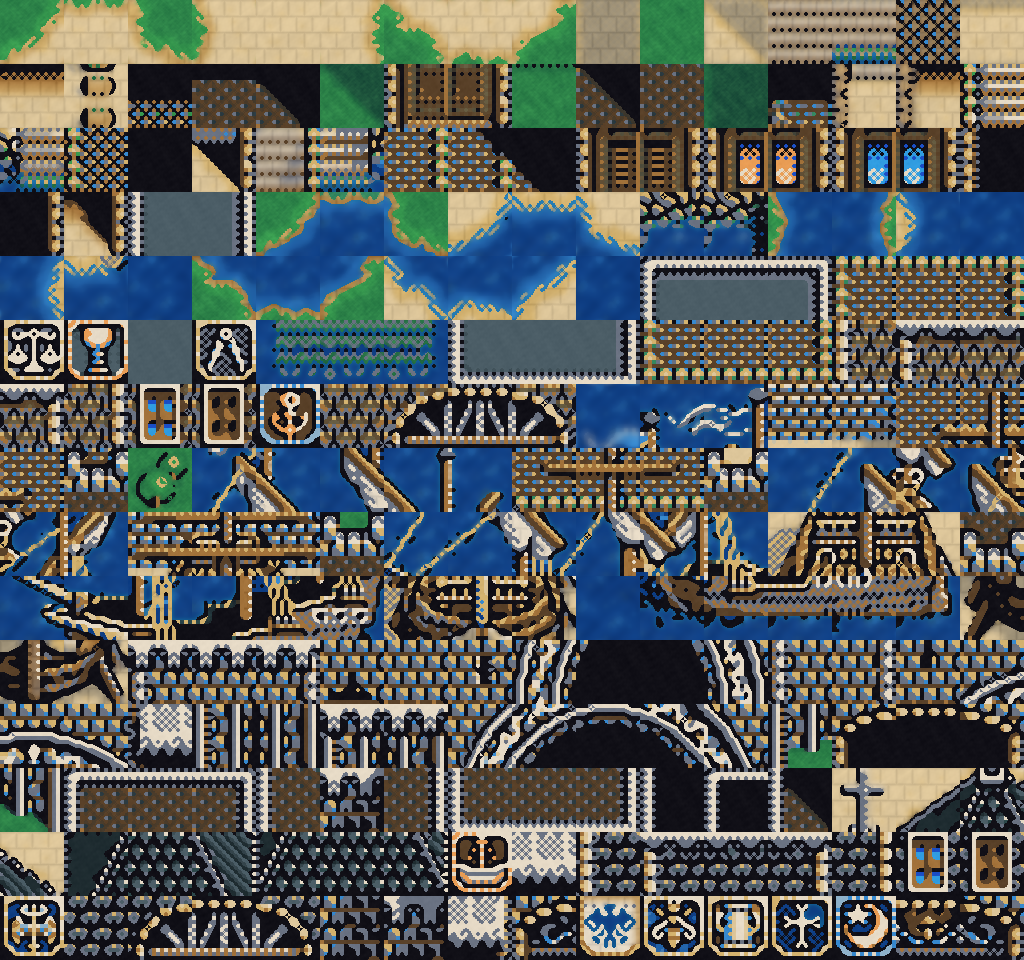
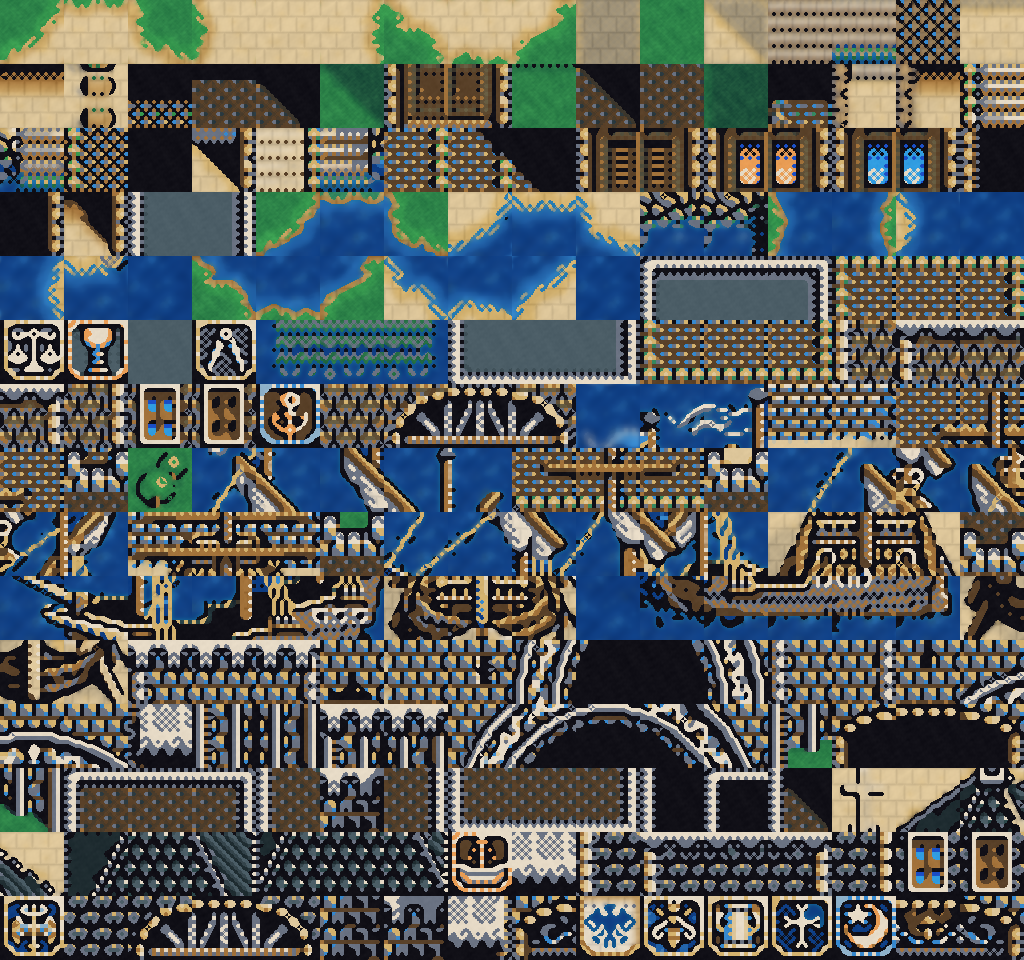
fix(art,hd2d): unify drydock ships, surf coastlines, stone shadows, and doorway stairs across sets 0-6

diff --git a/tools/build_hd_textures.py b/tools/build_hd_textures.py
@@ -415,7 +415,7 @@ def compute_portmap_context(meta: dict):
 WALL_PLAQUE_SKIP_SAND = {
     0: {83},
     1: set(),
-    2: {22, 23, 27, 56, 76, 84, 86, 95, 97, 219, 234, 235},
+    2: {56, 219, 234, 235},
     3: {89, 169, 181, 189},
     4: {44, 45, 46, 47, 110},
     5: {54, 62, 97},
@@ -429,10 +429,11 @@ def extract_outer_ground(tile_idx: np.ndarray, set_idx: int, t_id: int, p2: int,
     if t_id < p2 or np.any(is_water) or not edge_map:
         return outer_sand, outer_grass
 
-    def flood_group(grp: set[int]) -> tuple[np.ndarray, set[int]]:
+    def flood_group(grp: set[int], allow_mask: np.ndarray | None = None) -> tuple[np.ndarray, set[int]]:
         q = deque()
         loc = np.zeros_like(tile_idx, dtype=bool)
         all_a: set[int] = set()
+        valid = np.isin(tile_idx, list(grp)) if allow_mask is None else (np.isin(tile_idx, list(grp)) | allow_mask)
         for ei, allowed in edge_map.items():
             if not (grp & allowed):
                 continue
@@ -440,7 +441,7 @@ def extract_outer_ground(tile_idx: np.ndarray, set_idx: int, t_id: int, p2: int,
             coords = [(0, x) for x in range(16)] if ei == 0 else ([(y, 15) for y in range(16)] if ei == 1 else ([(15, x) for x in range(16)] if ei == 2 else [(y, 0) for y in range(16)]))
             run = []
             for y, x in coords:
-                if int(tile_idx[y, x]) in grp:
+                if valid[y, x]:
                     run.append((y, x))
                 else:
                     if len(run) >= 3:
@@ -458,7 +459,7 @@ def extract_outer_ground(tile_idx: np.ndarray, set_idx: int, t_id: int, p2: int,
             cy, cx = q.popleft()
             for dy, dx in ((-1, 0), (1, 0), (0, -1), (0, 1)):
                 ny, nx = cy + dy, cx + dx
-                if 0 <= ny < 16 and 0 <= nx < 16 and not loc[ny, nx] and int(tile_idx[ny, nx]) in grp:
+                if 0 <= ny < 16 and 0 <= nx < 16 and not loc[ny, nx] and valid[ny, nx]:
                     loc[ny, nx] = True
                     q.append((ny, nx))
         return loc, all_a
@@ -471,11 +472,21 @@ def extract_outer_ground(tile_idx: np.ndarray, set_idx: int, t_id: int, p2: int,
     if t_id in WALL_PLAQUE_SKIP_SAND.get(set_idx, set()):
         return outer_sand, outer_grass
 
-    # 2) 外围棋盘格砂土/泥地 ({8, 11, 15} 如 set 4 马车/set 3 椰树影, {8, 10} 如 set 5 马匹/篱笆)
+    # set 1 旱坞船左侧假影 ({0, 8, 10}) 允许穿过非实心黑船壳的孤立棋盘 0 噪点
+    checker_zero_mask = None
+    if set_idx == 1 and t_id in (129, 141, 153, 165):
+        zpad = np.pad((tile_idx == 0).astype(np.int32), ((0, 0), (1, 1)), mode="constant", constant_values=0)
+        z_lr = zpad[:, :-2] + zpad[:, 2:]
+        checker_zero_mask = (tile_idx == 0) & (z_lr == 0)
+        xs = np.arange(16)[None, :]
+        checker_zero_mask &= (xs <= 6)
+
+    # 2) 外围棋盘格砂土/泥地 ({8, 11, 15} 如旱坞船、马车、椰树影, {8, 10} 如 set 1 船与 set 5 马匹/篱笆)
     if not has_water_adj:
-        for grp, core, col_b in (({8, 11, 15}, {8, 11}, 11), ({8, 10}, {8, 10}, 10)):
-            md, ad = flood_group(grp)
-            ok_edge = core.issubset(ad) or (grp == {8, 11, 15} and {11, 15}.issubset(ad) and set_idx in (3, 4))
+        for grp, core, col_b in (({8, 11, 15}, {8, 11}, 11), ({8, 10, 11}, {8, 10}, 10), ({8, 10}, {8, 10}, 10)):
+            am = checker_zero_mask if (grp == {8, 10, 11} and checker_zero_mask is not None) else None
+            md, ad = flood_group(grp, allow_mask=am)
+            ok_edge = core.issubset(ad) or (grp == {8, 11, 15} and {11, 15}.issubset(ad))
             if int(np.sum(md)) >= 12 and ok_edge and int(np.sum(md & (tile_idx == 8))) >= 4 and int(np.sum(md & (tile_idx == col_b))) >= 4:
                 outer_sand |= md
 
@@ -496,6 +507,10 @@ def process_portchip_sheet(set_idx: int, p1: int, p2: int, p3: int, mats, water_
     cols, rows = W // tile_sz, H // tile_sz
 
     sand_alb, sand_hgt, grass_alb, grass_hgt, water_alb, arch_alb = mats
+    ref_tid = 5 if set_idx == 1 else 4
+    ref_r, ref_c = divmod(ref_tid, cols)
+    ref_tile_idx = idx_all[ref_r * tile_sz:(ref_r + 1) * tile_sz, ref_c * tile_sz:(ref_c + 1) * tile_sz]
+    stone_ref = np.mean(MODERN_GROUND_PAL[ref_tile_idx], axis=(0, 1)).astype(np.float32)
 
     alb_out = np.zeros((rows * hd_tile, cols * hd_tile, 4), dtype=np.uint8)
     nrm_out = np.zeros((rows * hd_tile, cols * hd_tile, 4), dtype=np.uint8)
@@ -510,14 +525,28 @@ def process_portchip_sheet(set_idx: int, p1: int, p2: int, p3: int, mats, water_
             # 语义划分：0=结构黑线, 1=水体, 2=砂石路面, 3=草坪, 4=建筑/石墙/木船/树木
             sem = np.full((tile_sz, tile_sz), 4, dtype=np.uint8)
             is_blue = (tile_idx == 9) | (tile_idx == 12)
-            # 仅把真正连片水域 (连通域>=14像素且主要包含深水色 9, 排除石砖高亮蓝点与王宫蓝鹰盾牌) 识别为动态水面
+            # 仅把真正连片水域 (深水连通域>=14 且含>=6深水9；或紧邻纯海且贴边的浪花浅水 12 / 码头平唇，排除建筑蓝窗) 识别为动态水面
             lbl_arr, n_comp = label(is_blue, structure=np.ones((3, 3), dtype=np.int32))
             water_base = np.zeros_like(is_blue)
+            c0_cnt_pre = int(np.sum(tile_idx == 0))
+            c15_cnt_pre = int(np.sum(tile_idx == 15))
+            c_ground_pre = int(np.sum((tile_idx == 8) | (tile_idx == 10) | (tile_idx == 11)))
+            c_land_pre = c_ground_pre + int(np.sum((tile_idx == 13) | (tile_idx == 14)))
             for cid in range(1, n_comp + 1):
                 comp_m = (lbl_arr == cid)
                 area = int(np.sum(comp_m))
                 deep_cnt = int(np.sum(comp_m & (tile_idx == 9)))
-                if area >= 14 and deep_cnt >= 6:
+                touches_border = bool(np.any(comp_m[0, :] | comp_m[-1, :] | comp_m[:, 0] | comp_m[:, -1]))
+                is_shallow_surf = (
+                    (t_id in water_adj_set)
+                    and touches_border
+                    and (
+                        (area >= 1 and c0_cnt_pre <= 36 and c15_cnt_pre >= 60 and c_land_pre >= 100)
+                        or (area >= 3 and c0_cnt_pre <= 36 and c15_cnt_pre >= 40 and c_land_pre >= 80)
+                        or (area >= 8 and c0_cnt_pre <= 32 and c_ground_pre >= 180)
+                    )
+                )
+                if (area >= 14 and deep_cnt >= 6) or is_shallow_surf:
                     water_base |= comp_m
 
             # 检测“纯水上波纹/水面倒影影块” (如 153 号水面倒影黑波，仅有 0/8/9/12 无木/石/砖结构；或 105 号海浪白沫)
@@ -540,23 +569,45 @@ def process_portchip_sheet(set_idx: int, p1: int, p2: int, p3: int, mats, water_
             c0_cnt = int(np.sum(tile_idx == 0))
             is_grass_shadow_tile = (t_id < p2) and (c0_cnt >= 90) and (13 in uniq_idx) and uniq_idx.issubset({0, 10, 13, 14})
             is_sand_shadow_tile = (t_id < p2) and (c0_cnt >= 90) and (8 not in uniq_idx) and (13 not in uniq_idx) and uniq_idx.issubset({0, 10, 11, 15})
-            is_stone_shadow_tile = (t_id < p1) and (c0_cnt >= 40) and (8 in uniq_idx) and uniq_idx.issubset({0, 8, 10, 11})
+            is_stone_shadow_tile = (
+                (t_id < p1 or (set_idx == 5 and t_id in (38, 39, 41, 45)))
+                and (c0_cnt >= 36)
+                and (8 in uniq_idx)
+                and uniq_idx.issubset({0, 8, 10, 11})
+            )
             is_ground_shadow_tile = is_grass_shadow_tile or is_sand_shadow_tile or is_stone_shadow_tile
             is_road_curb = (set_idx == 0) and (t_id in (18, 31, 32, 33, 38, 39, 40))
+            is_ground_stair = (set_idx == 3 and t_id == 30) or (set_idx == 4 and t_id in (44, 45, 46, 47))
 
             # 行1 (t_id >= 16) 且位于 < p2 的多黑线大门下半格/深色屋檐瓦片归为立体建筑，但排除石板路面、台阶与纯地面墙影
             is_arch_walk = (t_id >= 16) and (t_id < p2) and (c0_cnt >= 85) and not np.any(is_water) and not is_ground_shadow_tile and not is_road_curb
             is_walk = (t_id < p2) and not is_arch_walk
             is_tree_tile = (t_id >= p2) and (int(np.sum((tile_idx == 13) | (tile_idx == 14))) >= 120) and not np.any(is_water) and (c0_cnt >= 8)
             is_shore_tile = (t_id >= p2) and np.any(is_water) and (int(np.sum((tile_idx == 13) | (tile_idx == 14))) >= 18)
-            is_flat_beach = (t_id >= p2) and np.any(is_water) and (
-                c0_cnt <= 20
-                or (c0_cnt <= 32 and int(np.sum((tile_idx == 8) | (tile_idx == 10) | (tile_idx == 11) | (tile_idx == 13) | (tile_idx == 14) | (tile_idx == 15))) >= 150)
+            is_flat_beach = (t_id >= p2) and (
+                (
+                    np.any(is_water)
+                    and (
+                        c0_cnt <= 20
+                        or (c0_cnt <= 36 and int(np.sum((tile_idx == 8) | (tile_idx == 10) | (tile_idx == 11) | (tile_idx == 13) | (tile_idx == 14) | (tile_idx == 15))) >= 150)
+                    )
+                )
+                or (
+                    (t_id in water_adj_set)
+                    and (c0_cnt <= 48)
+                    and uniq_idx.issubset({0, 8, 10, 11, 12, 15})
+                    and (
+                        int(np.sum((tile_idx == 8) | (tile_idx == 10) | (tile_idx == 11))) >= 180
+                        or (c0_cnt <= 36 and int(np.sum((tile_idx == 11) | (tile_idx == 15))) >= 140)
+                    )
+                )
             )
 
             outer_sand, outer_grass = extract_outer_ground(
                 tile_idx, set_idx, t_id, p2, open_edge_map.get(t_id, {}), is_water, t_id in water_adj_set
             )
+            if set_idx == 5 and t_id == 35:
+                outer_sand[10:, :] |= (tile_idx[10:, :] == 8) | (tile_idx[10:, :] == 10)
             if is_road_curb:
                 outer_grass = outer_grass | ((tile_idx == 13) | (tile_idx == 14))
             outer_bg = outer_sand | outer_grass
@@ -598,31 +649,39 @@ def process_portchip_sheet(set_idx: int, p1: int, p2: int, p3: int, mats, water_
                 if np.any(outer_grass):
                     sem[outer_grass] = 3
             if not is_ground_shadow_tile:
-                sem[tile_idx == 0] = 0
+                sem[(tile_idx == 0) & ~outer_sand] = 0
             sem[is_water] = 1
 
             # 1) Albedo: 地面、平坦海岸线与树格使用地面色盘；道具/船/尖塔/十字架/沙漠屋顶的外围裸露地面也使用地面色盘以无缝衔接铺石
             pairs = GROUND_DITHER_PAIRS if (is_walk or is_shore_tile or is_flat_beach or is_tree_tile) else ARCH_DITHER_PAIRS
             if is_flat_beach:
                 pairs = pairs | {(8, 11), (11, 8), (8, 10), (10, 8)}
-            tile_pal = MODERN_GROUND_PAL if (is_walk or is_tree_tile or is_shore_tile or is_flat_beach) else MODERN_ARCH_PAL
+            tile_pal = MODERN_GROUND_PAL if (is_walk or is_tree_tile or is_shore_tile or is_flat_beach or is_ground_stair) else MODERN_ARCH_PAL
             base_16 = dedither_tile_rgb(tile_idx, tile_pal, pairs, is_water=is_water, wrap_edges=(is_walk and t_id < p1 and not is_ground_shadow_tile and not is_road_curb))
             if not (is_walk or is_tree_tile or is_shore_tile or is_flat_beach) and np.any(outer_bg):
                 ext_pairs = GROUND_DITHER_PAIRS | {(8, 11), (11, 8), (8, 10), (10, 8)}
                 base_ext = dedither_tile_rgb(tile_idx, MODERN_GROUND_PAL, ext_pairs, is_water=is_water, wrap_edges=False)
-                if set_idx == 3 and np.any(outer_sand & (tile_idx == 8)):
-                    # 清除 set 3 旱坞船体 (114/125) 与椰树 (235) 左侧原版 1993 灰格假影，由 WebGL2 实时光线统一投射斜影
+                if set_idx in (0, 2, 3, 4, 6) and np.any(outer_sand & (tile_idx == 8)):
+                    # 清除旱坞船体 (set 0/2/3)、椰树等左侧原版 1993 {8,11} 灰格假影，由 WebGL2 实时光线统一投射斜影
                     clean_sand = MODERN_GROUND_PAL[11] * 0.48 + MODERN_GROUND_PAL[15] * 0.52
                     base_ext[outer_sand & ((tile_idx == 8) | (tile_idx == 10))] = clean_sand
+                elif set_idx == 1 and t_id in (129, 141, 153, 165) and np.any(outer_sand):
+                    # 清除 set 1 旱坞船左侧 {0, 8, 10} 灰格假影，匹配其邻接地砖 stone_ref
+                    base_ext[outer_sand & ((tile_idx == 8) | (tile_idx == 0))] = stone_ref
                 base_16 = np.where(outer_bg[:, :, None], base_ext, base_16)
-            if is_ground_shadow_tile and not is_stone_shadow_tile:
+            if is_ground_shadow_tile:
                 if is_grass_shadow_tile:
                     sunlit_grass = MODERN_GROUND_PAL[13] * 0.48 + MODERN_GROUND_PAL[14] * 0.52
                     fill_col = sunlit_grass * 0.56 + np.array([3.0, 8.0, 18.0], dtype=np.float32)
+                    base_16[tile_idx == 0] = fill_col
+                elif is_stone_shadow_tile:
+                    # 将石砖暗影格 (set 1: 3/8/17, set 4: 11/16, set 5: 16/38/39/41/45) 的冷灰 {0, 8} 棋盘转为与对应图集石砖地面一致的柔和暗影
+                    base_16[tile_idx == 0] = stone_ref * 0.66 + np.array([4.0, 7.0, 15.0], dtype=np.float32)
+                    base_16[tile_idx == 8] = stone_ref * 0.84 + np.array([2.0, 4.0, 9.0], dtype=np.float32)
                 else:
                     sunlit_sand = MODERN_GROUND_PAL[10] * 0.45 + MODERN_GROUND_PAL[11] * 0.55
                     fill_col = sunlit_sand * 0.68 + np.array([6.0, 8.0, 16.0], dtype=np.float32)
-                base_16[tile_idx == 0] = fill_col
+                    base_16[tile_idx == 0] = fill_col
             if pure_water_ripple_tile:
                 # 153 等水上影波纹格：只保留柔和深暗水波层次，不生成刺眼黑刺团块
                 dark_ripple = (tile_idx == 0) | (tile_idx == 8)
@@ -711,7 +770,7 @@ def process_portchip_sheet(set_idx: int, p1: int, p2: int, p3: int, mats, water_
                         void_16 |= vm
             void_64 = np.repeat(np.repeat(void_16, 4, axis=0), 4, axis=1)
 
-            if (is_walk and not is_arch_walk) or pure_water_ripple_tile or is_road_curb or is_flat_beach:
+            if (is_walk and not is_arch_walk) or pure_water_ripple_tile or is_road_curb or is_flat_beach or is_ground_stair:
                 tile_elev = np.zeros_like(micro_height)
             elif is_tree_tile:
                 # 仅树木剪影内部填洞隆起（绝不到图块方框边！）
